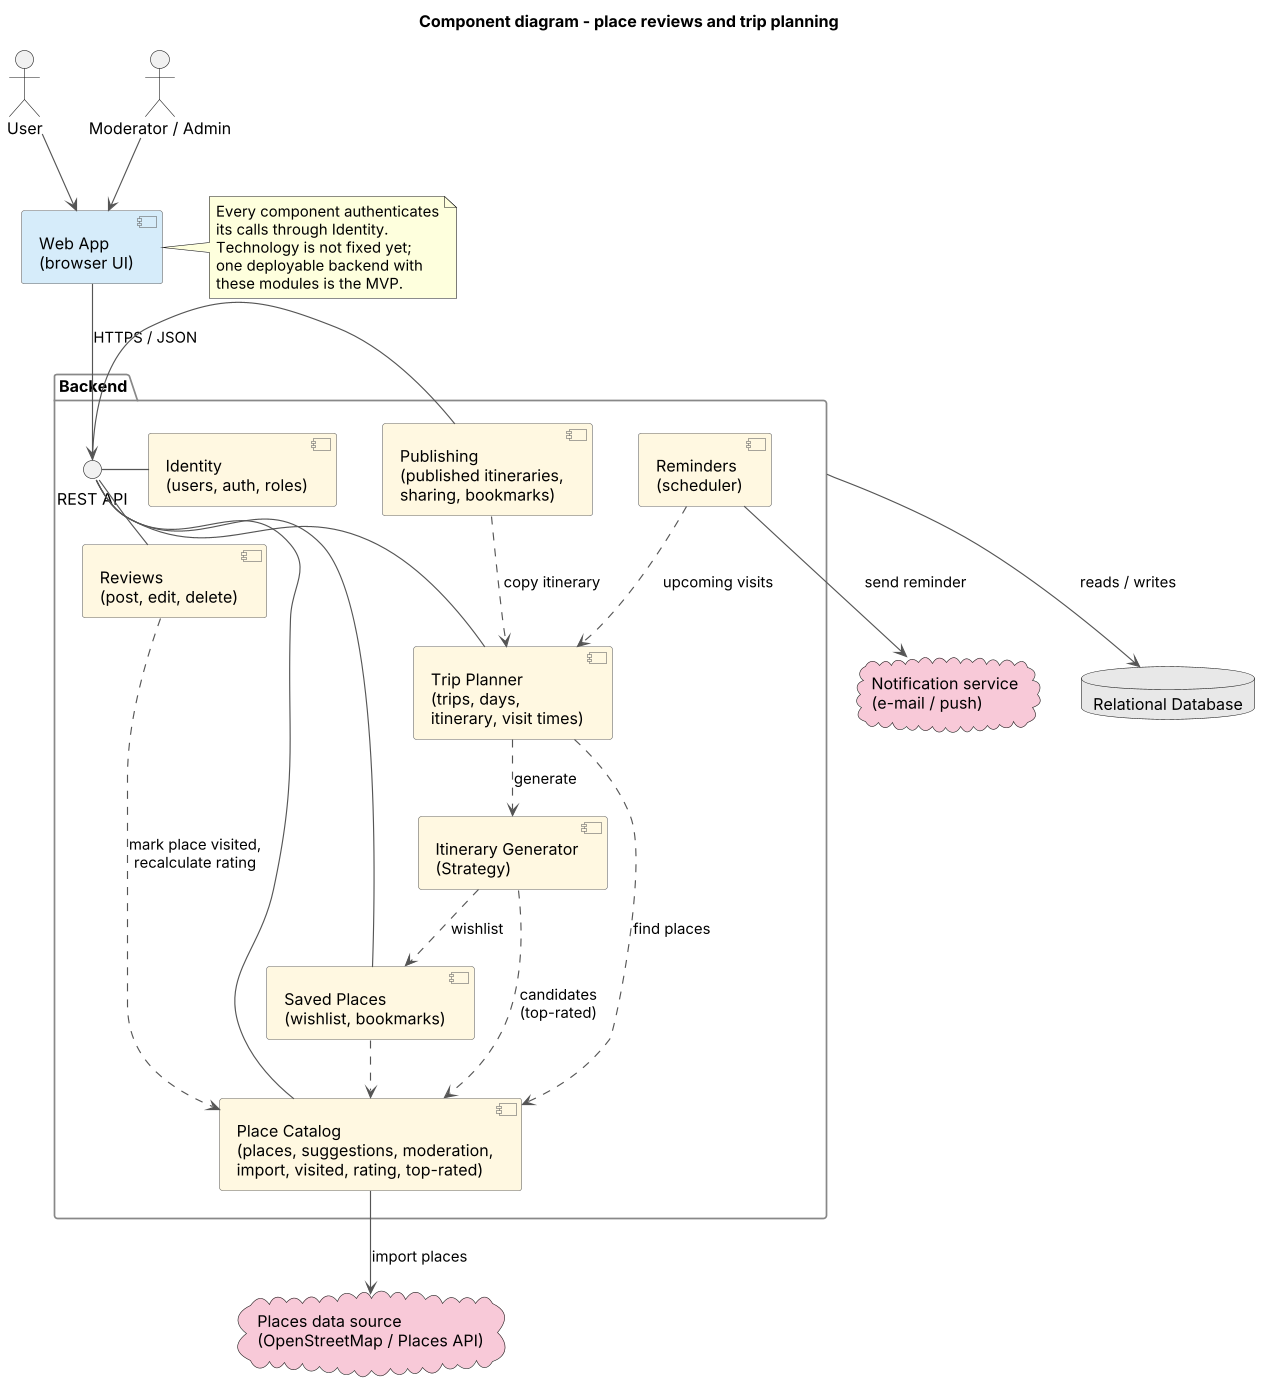
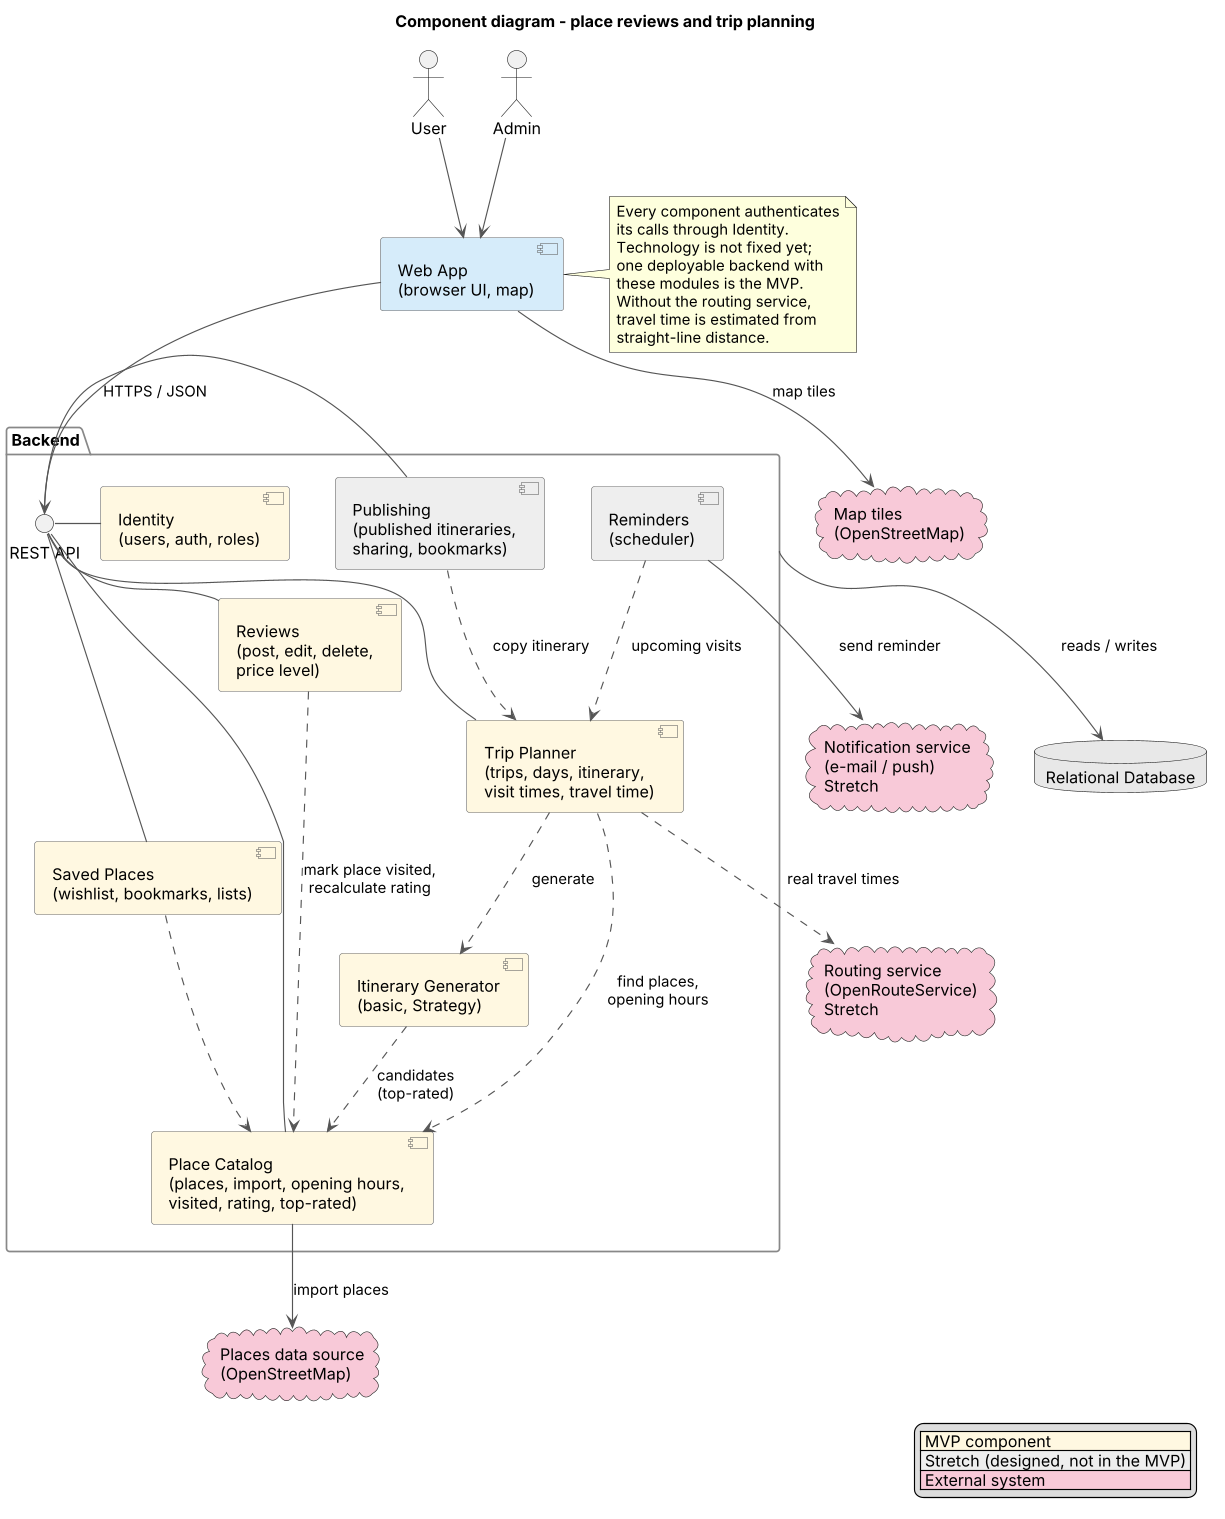
add mvp.md and updates to other docs

diff --git a/docs/design.md b/docs/design.md
@@ -35,30 +35,44 @@ yellow (small) = actor, green = view / read model, yellow (tall) = aggregate.
 | Aggregate | Responsibility |
 |---|---|
 | User | Registration |
-| Place | Catalog (imports and approved suggestions), rating, visited marker, top-rated places |
-| Review | Post, edit and delete reviews |
-| Trip | Constraints, days, itinerary, assigned places, visit times, reminders |
+| Place | Catalog (imports), opening hours, rating, price level, visited marker, top-rated places. Approved suggestions are designed but not in the MVP |
+| Review | Post, edit and delete reviews, with a price level (€ / €€ / €€€) |
 | Saved place | Wishlist ("I want to go there") and bookmarks ("remember for later") |
-| Published itinerary | Publishing, bookmarking published itineraries |
+| Saved list | Custom lists of places shown inside the bookmarks: create, rename and delete a list, add and remove places |
+| Trip | Constraints, days, itinerary, assigned places, visit times, reminders |
+| Published itinerary | Publishing, bookmarking published itineraries (Stretch) |
 
 ### External systems
 
-- **Places data source** (OpenStreetMap or a Places API) feeds *Import places*.
-- **Notification service** delivers visit reminders.
+- **Places data source** (OpenStreetMap) feeds *Import places*.
+- **Map tiles** (OpenStreetMap) are used by the web app to draw the map. They are not tied to a command.
+- **Notification service** delivers visit reminders (Stretch).
+- **Routing service** (OpenRouteService) provides real travel times (Stretch).
+  See [travel-time-feasibility.md](research/travel-time-feasibility.md).
 
 ### Key decisions
 
-- Places come from imports for the MVP. User suggestions go through moderation.
+- Places come from OpenStreetMap imports for the MVP. User suggestions with
+  moderation are designed but not in the MVP.
 - Posting a review marks the place as visited. Deleting the review does not unmark it.
 - A trip owns its days. Days are derived from the trip date range and are added or
   removed by a policy whenever the constraints change.
 - An itinerary is created either manually or generated by the system. Both end in
-  *Itinerary created*.
+  *Itinerary created*. The MVP generator is a basic one; a smarter one is Stretch.
 - Deleting a day removes its assigned places. Deleting a trip removes its days,
   itinerary and assigned places.
 - The rating is recalculated whenever a review is posted, changed or deleted, and
   the top-rated places are refreshed afterwards.
 - Wishlist and bookmark are kept separate. The wishlist feeds the itinerary generator.
+- OpenStreetMap has no ratings or price levels, so reviewers provide the price level
+  and a seed script creates demo users and reviews, so that rankings work from day one.
+- Opening hours come from OpenStreetMap when mapped. Where they are missing the app
+  shows "unknown" and cannot warn.
+- Travel time between stops is estimated from straight-line distance in the MVP.
+  Real routing is Stretch.
+- A place can be in several lists, and a list can hold any place.
+
+What is in the MVP and what is not: see [mvp.md](mvp.md) and [vision.md](vision.md).
 
 ---
 
@@ -67,40 +81,49 @@ yellow (small) = actor, green = view / read model, yellow (tall) = aggregate.
 - **Diagram:** ![Domain model](design/domain-model.png)
 - **Source:** [domain-model.puml](design/domain-model.puml) (PlantUML)
 
-Colours in the diagram match the aggregates from the EventStorming.
+Colours in the diagram match the aggregates from the EventStorming. Classes marked
+*post-MVP* are designed but not planned for the MVP.
 
 | Class | Aggregate | Key attributes | Main associations |
 |---|---|---|---|
-| User | User | username, email, role (USER / MODERATOR / ADMIN) | writes Reviews, saves Places, plans Trips, publishes Itineraries |
-| Place | Place | name, category, address, lat/long, priceLevel, averageRating, reviewCount, source; recalculateRating(), markVisited(user) | belongs to a City, has Reviews and Visits |
+| User | User | username, email, role (USER / ADMIN) | writes Reviews, saves Places, owns Lists, plans Trips |
+| Place | Place | osmId, name, category, address, lat/long, openingHours, priceLevel, averageRating, reviewCount, source; recalculateRating(), markVisited(user) | belongs to a City, has Reviews and Visits |
 | City | Place | name, country, lat/long | contains Places, destination of Trips |
-| PlaceSuggestion | Place | proposed data, status (PENDING / APPROVED / REJECTED) | suggested by a User, decided by a moderator, proposed in a City, approved as a Place |
-| Review | Review | rating (1..5), text, createdAt, updatedAt | written by a User about a Place |
+| PlaceSuggestion (post-MVP) | Place | proposed data, status (PENDING / APPROVED / REJECTED) | suggested by a User, decided by an admin, proposed in a City, approved as a Place |
+| Review | Review | rating (1..5), priceLevel (optional), text, createdAt, updatedAt | written by a User about a Place |
 | Visit | Place | visitedAt | links a User to a Place (one per pair); created by a policy when a review is posted |
 | SavedPlace | Saved place | type (WISHLIST / BOOKMARK), savedAt | User saves a Place |
+| SavedList | Saved list | name, createdAt; addPlace(), removePlace() | owned by a User, holds ListEntries |
+| ListEntry | Saved list | addedAt | refers to a Place |
 | Trip | Trip | name, createdAt | owned by a User, goes to a City |
-| TripConstraints (value object) | Trip | startDate, endDate, budget, allowedCategories | part of Trip |
+| TripConstraints (value object) | Trip | startDate, endDate, budgetLevel, allowedCategories | part of Trip |
 | Day | Trip | dayNumber, date | part of Trip, derived from the date range |
-| Itinerary | Trip | mode (MANUAL / GENERATED), createdAt | part of Trip (0..1) |
-| ItineraryStop | Trip | visitTime, position, reminderSent | on a Day, visits a Place |
-| PublishedItinerary | Published itinerary | title, shareToken, publishedAt | published by a User, copy of an itinerary (PublishedStop) |
-| ItineraryBookmark | Published itinerary | bookmarkedAt | User bookmarks a PublishedItinerary |
-| ItineraryGenerator (Strategy) | domain service | generate(trip, candidates) | RankingItineraryGenerator is the first implementation |
+| Itinerary | Trip | mode (MANUAL / GENERATED), createdAt | part of Trip (0..1), uses a TravelTimeEstimator |
+| ItineraryStop | Trip | visitTime, position, reminderSent; isOutsideOpeningHours() | on a Day, visits a Place |
+| PublishedItinerary (post-MVP) | Published itinerary | title, shareToken, publishedAt | published by a User, copy of an itinerary (PublishedStop) |
+| ItineraryBookmark (post-MVP) | Published itinerary | bookmarkedAt | User bookmarks a PublishedItinerary |
+| ItineraryGenerator (Strategy) | domain service | generate(trip, candidates) | RankingItineraryGenerator is the MVP implementation, SmartItineraryGenerator is post-MVP |
+| TravelTimeEstimator (Strategy) | domain service | estimate(from, to, mode) | StraightLineEstimator is the MVP implementation, RoutingServiceEstimator is post-MVP |
 
 Design notes:
 
 - Wishlist and bookmark are one class with a type, because they behave the same.
   Only the wishlist feeds the generator.
+- Lists are their own aggregate. A list holds places directly, so removing a
+  bookmark never affects a list, and one place can be in several lists.
 - Days are owned by the Trip and recalculated when the constraints change.
   Deleting a Trip deletes its Days, Itinerary and stops.
 - A published itinerary is a copy, so it survives the deletion of the original trip.
 - *Top-rated places* is a read model (a query), not a class. The rating itself
-  (`averageRating`, `reviewCount`) is stored on Place.
+  (`averageRating`, `reviewCount`) is stored on Place. The place `priceLevel` is
+  derived from the price levels given in reviews.
 - Visit belongs to the Place aggregate, as on the EventStorming board. The Review
   aggregate only triggers it through a policy, so deleting a review does not remove
   the Visit.
 - An approved PlaceSuggestion creates a Place (source = SUGGESTED) in the city
   it was proposed in.
+- Both generators and both travel-time estimators sit behind a Strategy interface,
+  so the Stretch versions replace the MVP ones without changing the planner.
 
 ---
 
@@ -109,25 +132,32 @@ Design notes:
 - **Diagram:** ![Component diagram](design/component-diagram.png)
 - **Source:** [component-diagram.puml](design/component-diagram.puml) (PlantUML)
 
+Grey components are Stretch: designed, not in the MVP.
+
 | Component | Responsibility | Depends on |
 |---|---|---|
-| Web App | Browser UI for users, moderators and admins | Backend REST API |
+| Web App | Browser UI for users and admins, including the map | Backend REST API, Map tiles (external) |
 | Identity | Users, authentication, roles | Database |
-| Place Catalog | The whole Place aggregate: places, city search, suggestions and moderation, import, visited marker, rating recalculation and the top-rated list | Database, Places data source (external) |
-| Reviews | Post, edit and delete reviews. Triggers *mark place visited* and *recalculate rating* in Place Catalog | Place Catalog |
-| Saved Places | Wishlist and bookmarks | Place Catalog |
-| Trip Planner | Trips, days, itineraries, visit times | Place Catalog, Itinerary Generator |
-| Itinerary Generator | Builds an itinerary from top-rated places, budget, type filters and the wishlist (Strategy pattern) | Place Catalog, Saved Places |
-| Publishing | Published itineraries, sharing, bookmarks | Trip Planner |
-| Reminders | Scheduler that sends visit reminders | Trip Planner, Notification service (external) |
+| Place Catalog | The whole Place aggregate: places, city search, import, opening hours, visited marker, rating recalculation and the top-rated list (suggestions and moderation are post-MVP) | Database, Places data source (external) |
+| Reviews | Post, edit and delete reviews, including the price level. Triggers *mark place visited* and *recalculate rating* in Place Catalog | Place Catalog |
+| Saved Places | Wishlist, bookmarks and custom lists | Place Catalog |
+| Trip Planner | Trips, days, itineraries, visit times, travel-time estimates and opening-hours warnings | Place Catalog, Itinerary Generator, Routing service (external, Stretch) |
+| Itinerary Generator | Builds a basic itinerary from top-rated places, type filters and distance (Strategy pattern) | Place Catalog |
+| Publishing (Stretch) | Published itineraries, sharing, bookmarks | Trip Planner |
+| Reminders (Stretch) | Scheduler that sends visit reminders | Trip Planner, Notification service (external) |
 
 External systems:
 
-- **Places data source** (OpenStreetMap or a Places API), used by Place Catalog to import places.
-- **Notification service** (e-mail or push), used by Reminders.
+- **Places data source** (OpenStreetMap), used by Place Catalog to import places.
+- **Map tiles** (OpenStreetMap), used by the Web App to draw the map.
+- **Routing service** (OpenRouteService, Stretch), used by Trip Planner for real travel times.
+- **Notification service** (e-mail or push, Stretch), used by Reminders.
 
 Each component matches an aggregate from the EventStorming (Identity = User, Place
-Catalog = Place, Reviews = Review, Saved Places = Saved place, Trip Planner = Trip,
-Publishing = Published itinerary). The Itinerary Generator is the domain service
-and Reminders is the timer-driven policy.
+Catalog = Place, Reviews = Review, Saved Places = Saved place and Saved list, Trip
+Planner = Trip, Publishing = Published itinerary). The Itinerary Generator is the
+domain service and Reminders is the timer-driven policy.
 
+The technology stack is not decided yet. The MVP is one deployable backend with
+these modules and a relational database, so the diagram stays valid whichever
+stack the team picks.

diff --git a/docs/mvp.md b/docs/mvp.md
@@ -1,0 +1,135 @@
+# MVP
+
+Group 7 · MESW LES 2026-27 · Iteration 0
+
+The MVP is the smallest version of the product that we **commit to finish and
+release by 18 Dec 2026**. Everything else in the [vision](vision.md) is Stretch
+(only if the MVP is done) or Dream (not planned).
+
+## 1. MVP statement
+
+> A signed-in user can **find places in a city, read and write reviews, see what
+> is top-rated and where it is on a map, save places, and plan a trip to that city
+> for a number of days**, building the day-by-day itinerary by hand or letting the
+> app generate a basic one from the rankings.
+
+## 2. In the MVP
+
+Each feature lists what the user can do, where it appears in the
+[EventStorming](design/eventstorming.png), and when we plan to build it.
+Planned iterations are targets and are re-planned at each sprint planning.
+
+### Accounts
+
+| ID | Feature | The user can… | EventStorming | Iteration |
+|---|---|---|---|---|
+| A1 | Register and log in | Create an account, log in and log out | Register user | 1 |
+
+### Places and discovery
+
+| ID | Feature | The user can… | EventStorming | Iteration |
+|---|---|---|---|---|
+| B1 | Place import | (Admin) import places for the MVP cities from OpenStreetMap | Import places, Add place to catalog | 1 |
+| B2 | Demo data | (Team) load demo users and sample reviews so rankings work from day one | none (seed script) | 1, extended in 2 |
+| B3 | City search and filters | Search a city, browse its places, filter by type, price level and rating, sort by rating | City search results | 1 basic, 2 filters |
+| B4 | Place page | See details, opening hours (or "unknown"), rating, price level and reviews | Place detail | 1 |
+| B5 | Map view | See a city's places as pins on a map, with clustering | none (UI) | 2 |
+| B6 | Top-rated places | See the top-rated places per city and type | Top-rated places, Update top-rated places | 2 |
+
+### Reviews
+
+| ID | Feature | The user can… | EventStorming | Iteration |
+|---|---|---|---|---|
+| C1 | Post a review | Rate 1 to 5, write text, say how expensive it was (€ / €€ / €€€). The place is marked as visited and its rating updates | Post review, Mark place visited, Recalculate rating | 1 |
+| C2 | Edit and delete a review | Change or remove own review; rating and top-rated update | Edit review, Delete review | 2 |
+| C3 | Visited places | See a list of the places they have visited | Place marked as visited (view) | 2 |
+
+### Saved places and lists
+
+| ID | Feature | The user can… | EventStorming | Iteration |
+|---|---|---|---|---|
+| D1 | Wishlist and bookmarks | Add and remove places on the wishlist ("I want to go") or bookmarks ("remember this") | Wishlist place, Bookmark place, Delete wishlisted place, Delete bookmarked place | 2 |
+| D2 | Custom lists | Create, rename and delete lists in the bookmarks section; add and remove places. A place can be in several lists | New: Create list, Rename list, Delete list, Add place to list, Remove place from list | 4 |
+
+### Trips and itineraries
+
+| ID | Feature | The user can… | EventStorming | Iteration |
+|---|---|---|---|---|
+| E1 | Create a trip | Choose a city, dates, budget level (€ / €€ / €€€) and preferred types; days are created from the dates | Create trip, Add days | 2 |
+| E2 | Change a trip | Edit the constraints; days are added or removed to match | Change trip constraints, Add days, Remove days, Remove day's places | 3 |
+| E3 | Delete a trip | Delete a trip with its days, itinerary and stops | Delete trip, Delete itinerary | 3 |
+| E4 | Manual itinerary | Create an itinerary, assign places to days, remove them, set visit times | Create itinerary, Assign place, Remove place, Set visit time | 3 |
+| E5 | Nearby suggestions | While planning a stop, see the best-ranked places nearby (for example lunch after a landmark) | Nearby places (view) | 3 |
+| E6 | Opening-hours warning | Get a warning when a visit time is outside the place's opening hours (only where hours are known) | none (rule) | 3 |
+| E7 | Travel-time estimate | See "≈ N min walk" between consecutive stops, estimated from straight-line distance | none (rule) | 4 |
+| E8 | Basic generator | Press "Generate itinerary": per day, top-rated places of the chosen types, grouped by distance, with a lunch place near the morning stop. The result can be edited like a manual one | Generate itinerary | 3, tuned in 4 |
+
+### Platform
+
+| ID | Feature | Detail | Iteration |
+|---|---|---|---|
+| P1 | Web app, no installation | Works in current desktop and mobile browsers, layout usable down to phone width | 1 onward |
+| P2 | Dev and prod environments | Separate servers; changes go to dev first and reach prod at each sprint review | 1 |
+| P3 | Attribution | "© OpenStreetMap contributors" visible on the map and wherever place data is shown | 1, 2 |
+
+## 3. Not in the MVP
+
+Everything marked Stretch or Dream in the [vision](vision.md). The designs
+already cover some of it (suggestions and moderation, publishing and sharing,
+reminders), but it is **not built** in the MVP.
+
+If there is time left, the Stretch ideas we would take first, in this order:
+
+1. Smart generator (opening hours, travel times, budget, wishlist)
+2. Real travel times from a routing service
+3. Photos for landmarks
+4. Publish and share itineraries
+5. Visit reminders
+6. Other conflict warnings, drag and drop, alternatives per stop
+
+**Scope rule:** nothing is added to the MVP without removing something of similar
+size.
+
+## 4. Data for the MVP
+
+- **Cities:** a small number of cities, so that every city has enough places and
+  demo reviews to rank well. The cities are still to be chosen (see open questions).
+- **Places:** imported from OpenStreetMap once, by a script, and stored in our own
+  database. The app never calls OpenStreetMap live for place data.
+- **Opening hours:** taken from OpenStreetMap where mapped. Where they are missing
+  the app says "unknown" and cannot warn.
+- **Ratings and price levels:** OpenStreetMap has none, so they come from reviews.
+  A seed script creates demo users and sample reviews, marked as demo data.
+
+## 5. Non-functional requirements
+
+| Area | Requirement |
+|---|---|
+| Access | Browser only. A teacher can use the whole app from the URL with no installation |
+| Environments | Separate dev and prod servers |
+| Security | Passwords stored hashed, every write action requires login, users can only change their own data, input is validated |
+| Compatibility | Latest Chrome, Firefox, Edge and Safari; usable on a phone-width screen |
+| Map | Follows the OpenStreetMap tile usage policy (attribution, no bulk or offline use), or uses a provider that allows our usage |
+| Licensing | OpenStreetMap attribution shown |
+
+
+## 6. Demo scenario
+
+The MVP is shown, at each sprint review from Iteration 2 on and at the final
+release, with this scenario on the prod server:
+
+1. Register and log in.
+2. Search a city, filter restaurants by price level, open the map and a place page.
+3. Post a review with a price level; see the rating and top-rated list change and
+   the place appear in "visited".
+4. Add a place to the wishlist and to a custom list.
+5. Create a 3-day trip with a budget level and preferred types.
+6. Generate an itinerary, then edit it: move a place, set a visit time outside
+   opening hours and see the warning, check the travel-time estimates.
+7. Change the trip dates and see the days update.
+8. Delete the trip.
+
+## 7. When is the MVP done?
+
+When every feature in section 2 meets the [Definition of Done](definition-of-done.md)
+and the demo scenario in section 6 runs on the prod server.
